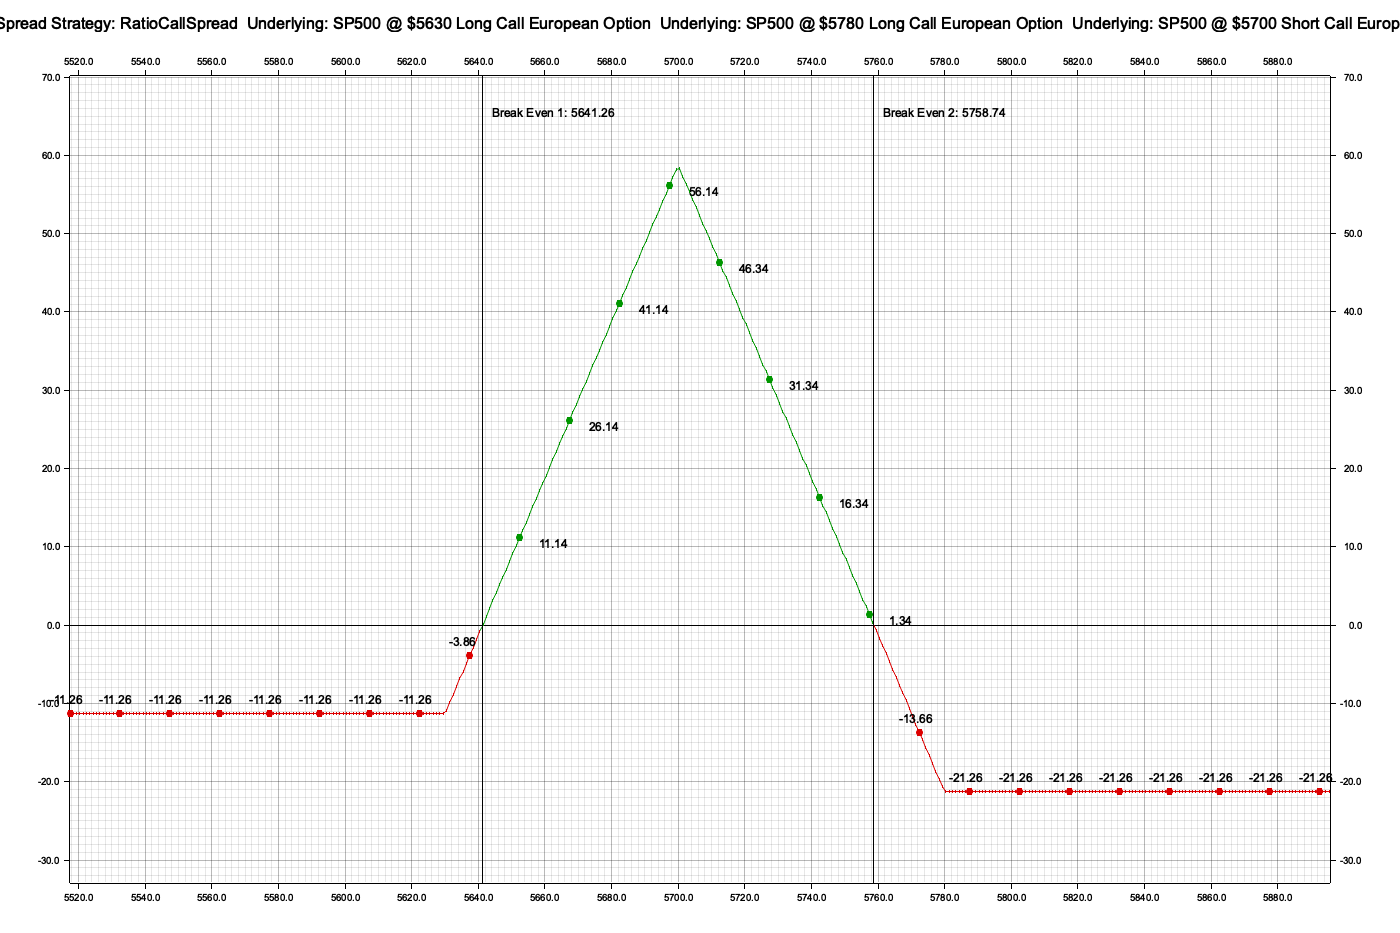
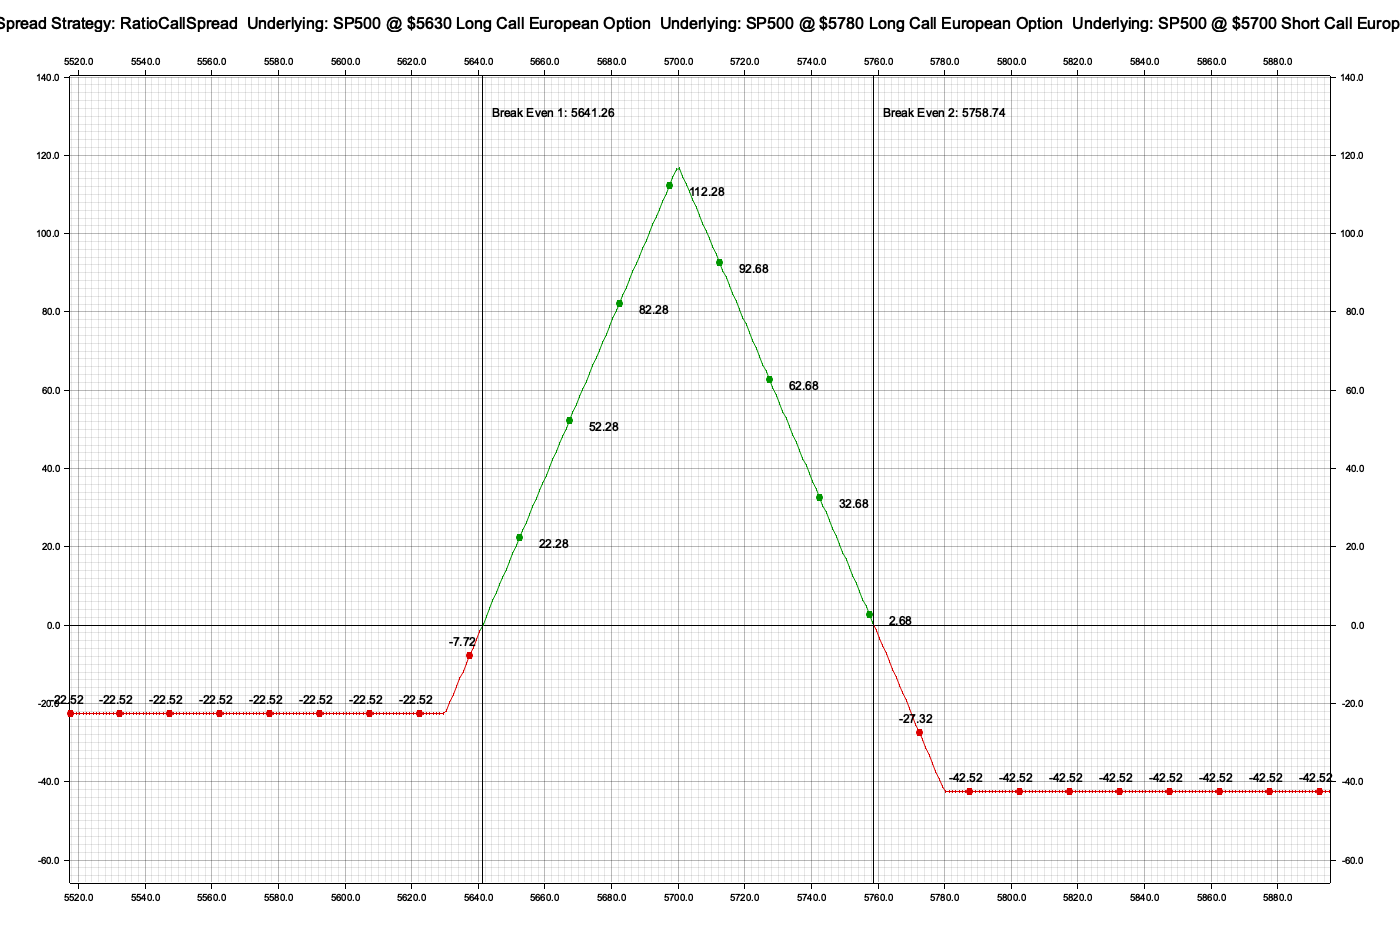
Update quantity parameters and improve calculation accuracy
Adjusted the long and short quantity parameters for the ratio call spread strategy in both example files. Enhanced the calculation of break-even points for increased precision and added validation to ensure the short call quantity is twice the long call quantity.

diff --git a/src/strategies/ratio_call_spread.rs b/src/strategies/ratio_call_spread.rs
@@ -141,10 +141,10 @@ impl RatioCallSpread {
         let loss_at_itm_strike = strategy.calculate_profit_at(strategy.long_call_itm.option.strike_price);
         let loss_at_otm_strike = strategy.calculate_profit_at(strategy.long_call_otm.option.strike_price);
 
-        let first_bep = strategy.long_call_itm.option.strike_price - loss_at_itm_strike;
+        let first_bep = strategy.long_call_itm.option.strike_price - (loss_at_itm_strike / long_quantity as f64);
         strategy.break_even_points.push(first_bep);
 
-        let second_bep = strategy.long_call_otm.option.strike_price + loss_at_otm_strike;
+        let second_bep = strategy.long_call_otm.option.strike_price + (loss_at_otm_strike / long_quantity as f64);
         strategy.break_even_points.push(second_bep);
 
 
@@ -373,6 +373,11 @@ impl Strategies for RatioCallSpread {
         }
         if self.underlying_price <= 0.0 {
             error!("Underlying price must be greater than zero");
+            return false;
+        }
+        if self.short_call.option.quantity != self.long_call_itm.option.quantity * 2 {
+            error!("Short call quantity must be twice the long call quantity and currently is short: {} and long: {}",
+                self.short_call.option.quantity, self.long_call_itm.option.quantity);
             return false;
         }
         true

diff --git a/examples/strategy_ratio_call_spread_best_area.rs b/examples/strategy_ratio_call_spread_best_area.rs
@@ -29,8 +29,8 @@ fn main() -> Result<(), Box<dyn Error>> {
         ZERO, // implied_volatility
         0.05, // risk_free_rate
         ZERO, // dividend_yield
-        1,    // long quantity
-        2,    // short_quantity
+        2,    // long quantity
+        4,    // short_quantity
         ZERO, // premium_long_itm
         ZERO, // premium_long_otm
         ZERO, // premium_short

diff --git a/examples/strategy_ratio_call_spread_best_ratio.rs b/examples/strategy_ratio_call_spread_best_ratio.rs
@@ -29,8 +29,8 @@ fn main() -> Result<(), Box<dyn Error>> {
         ZERO, // implied_volatility
         0.05, // risk_free_rate
         ZERO, // dividend_yield
-        1,    // long quantity
-        2,    // short_quantity
+        2,    // long quantity
+        4,    // short_quantity
         ZERO, // premium_long_itm
         ZERO, // premium_long_otm
         ZERO, // premium_short
